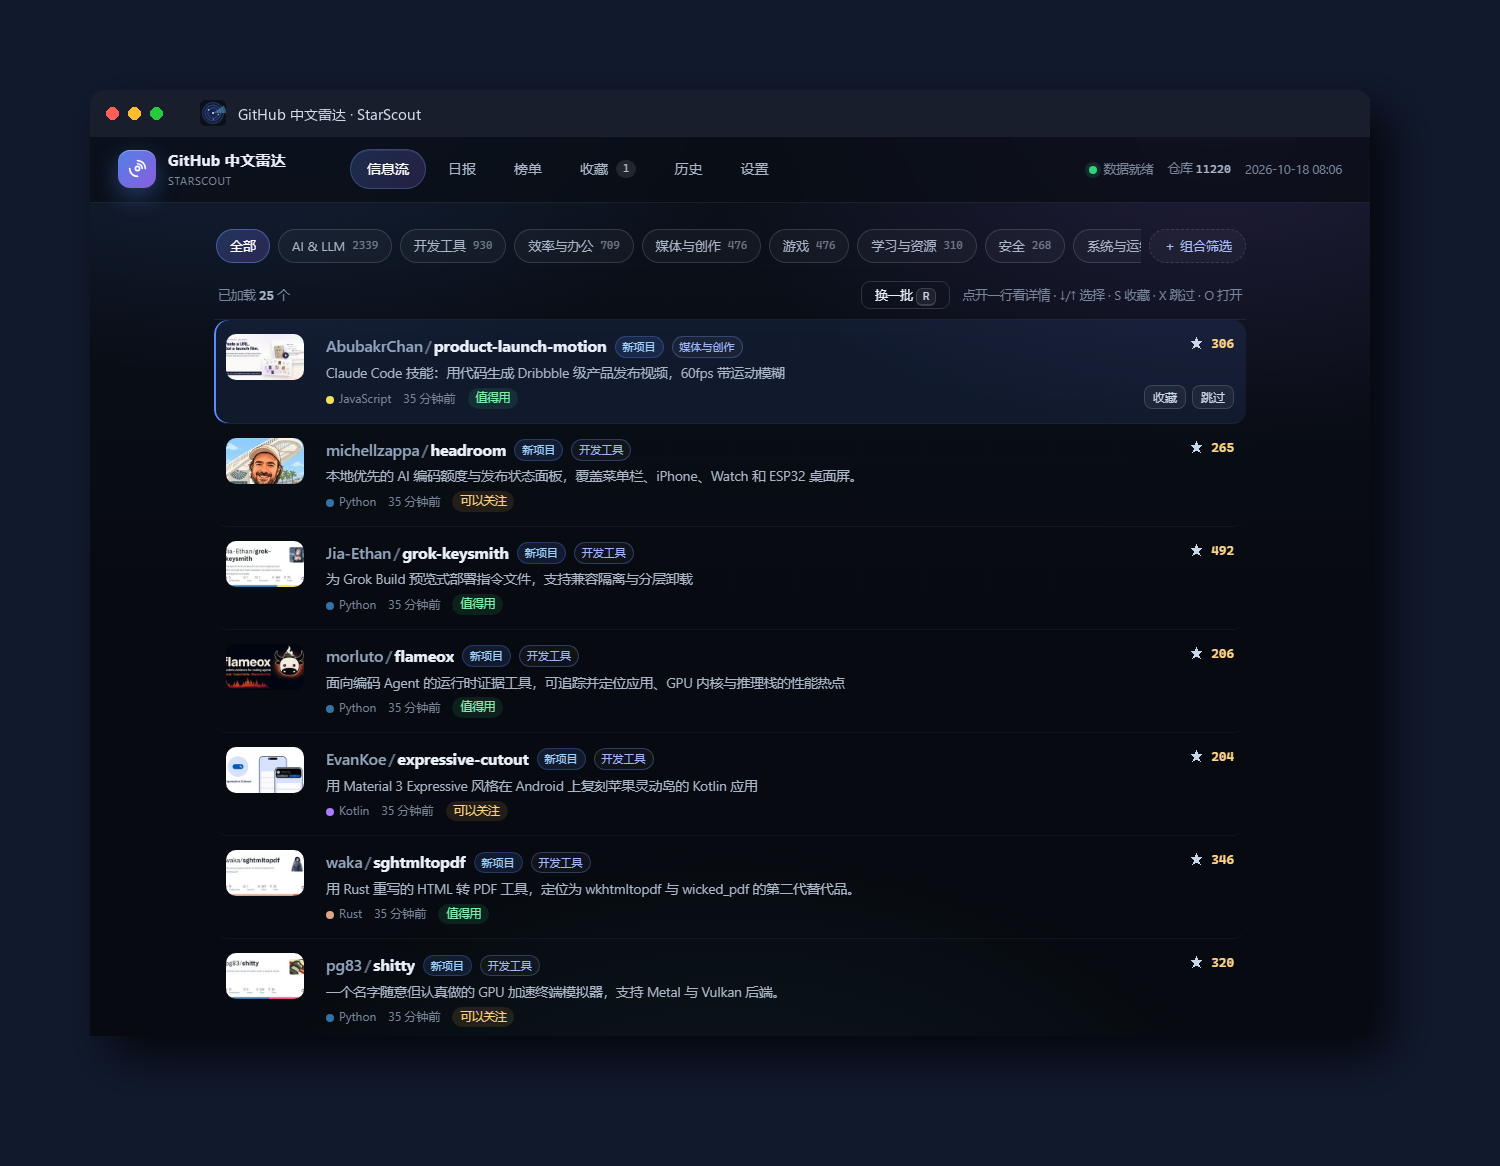
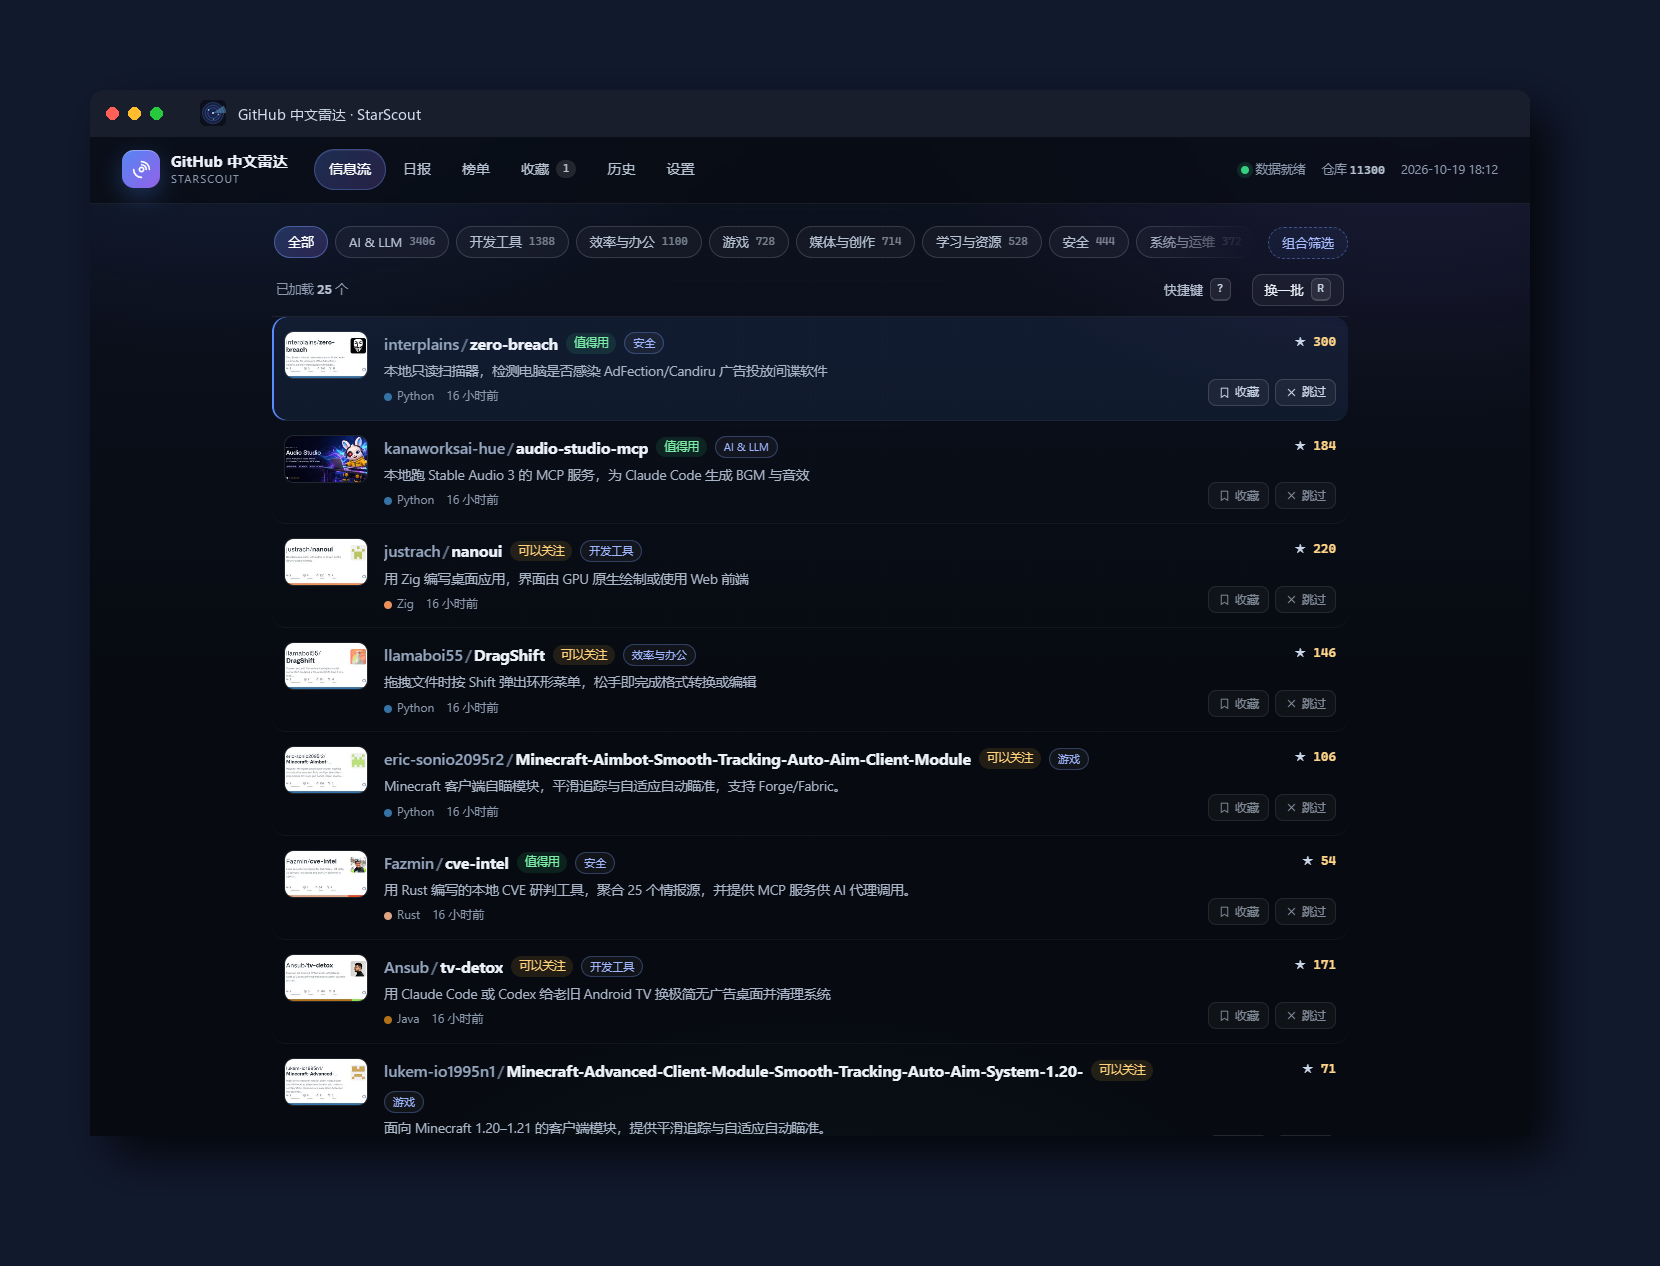
docs: 更新新版 UI 截图、演示 GIF 与截图脚本
- 重新生成 feed/daily/rank/settings/detail 截图与 app 桌面示意图
- demo.gif 用新 UI 重新录制
- 截图脚本支持 RADAR_DEMO_URL 自定义地址，优先复用本机 Edge

diff --git a/scripts/make_demo_gif.py b/scripts/make_demo_gif.py
@@ -3,6 +3,7 @@
 from __future__ import annotations
 
 import math
+import os
 from pathlib import Path
 
 from PIL import Image
@@ -10,7 +11,7 @@ from playwright.sync_api import sync_playwright
 
 ROOT = Path(__file__).resolve().parent.parent
 OUT = ROOT / "docs" / "screenshots" / "demo.gif"
-URL = "http://127.0.0.1:8765"
+URL = os.environ.get("RADAR_DEMO_URL", "http://127.0.0.1:8765")
 FRAME_W = 1000
 FRAME_MS = 900
 
@@ -19,7 +20,11 @@ def main() -> None:
     shots: list[Image.Image] = []
 
     with sync_playwright() as p:
-        browser = p.chromium.launch(args=["--hide-scrollbars"])
+        try:
+            # 本机装了 Edge 时直接复用（国内环境通常比临时下载 Chromium 稳定）
+            browser = p.chromium.launch(channel="msedge", args=["--hide-scrollbars"])
+        except Exception:
+            browser = p.chromium.launch(args=["--hide-scrollbars"])
         page = browser.new_page(viewport={"width": 1280, "height": 800}, device_scale_factor=1)
         page.goto(URL, wait_until="networkidle")
         page.wait_for_timeout(2200)
